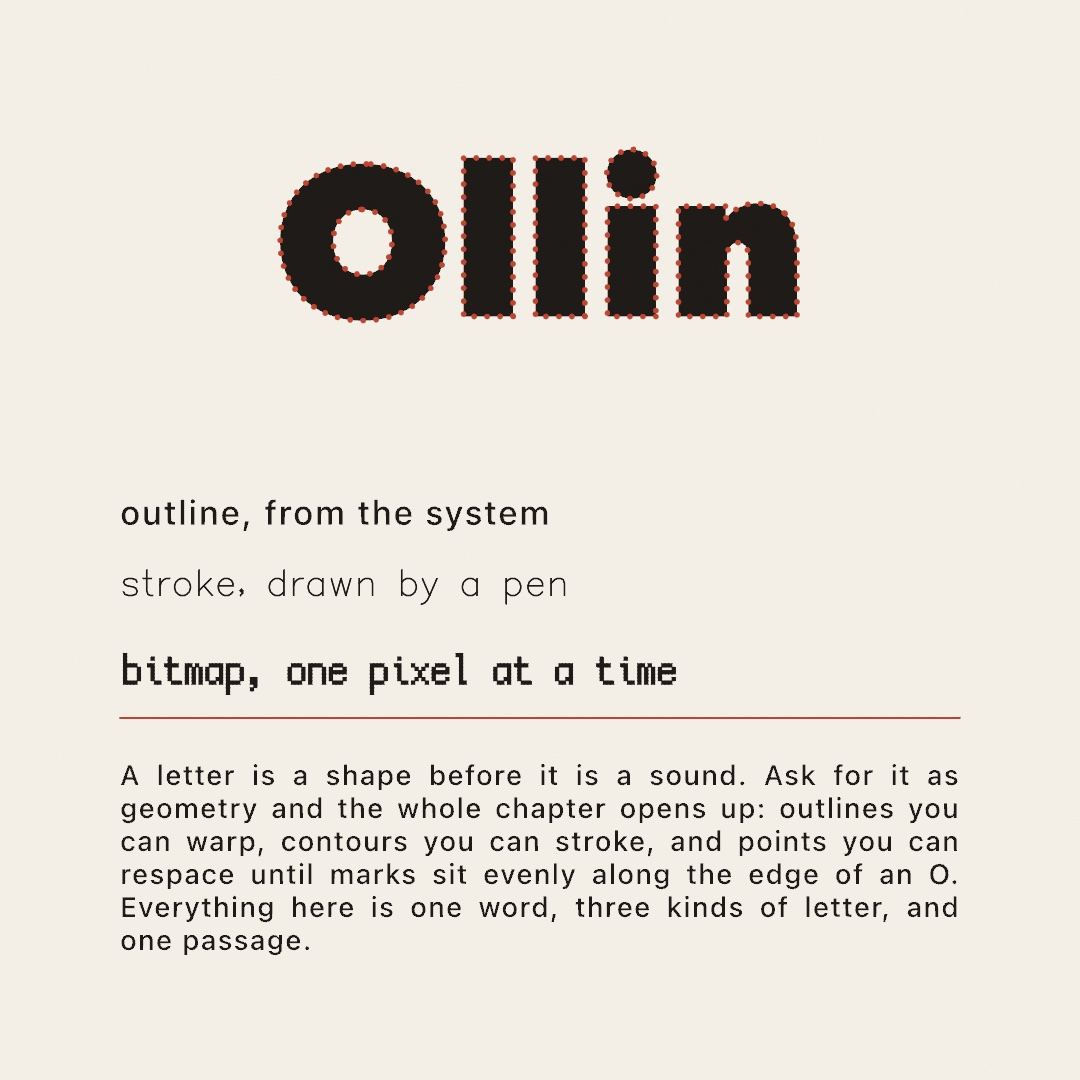
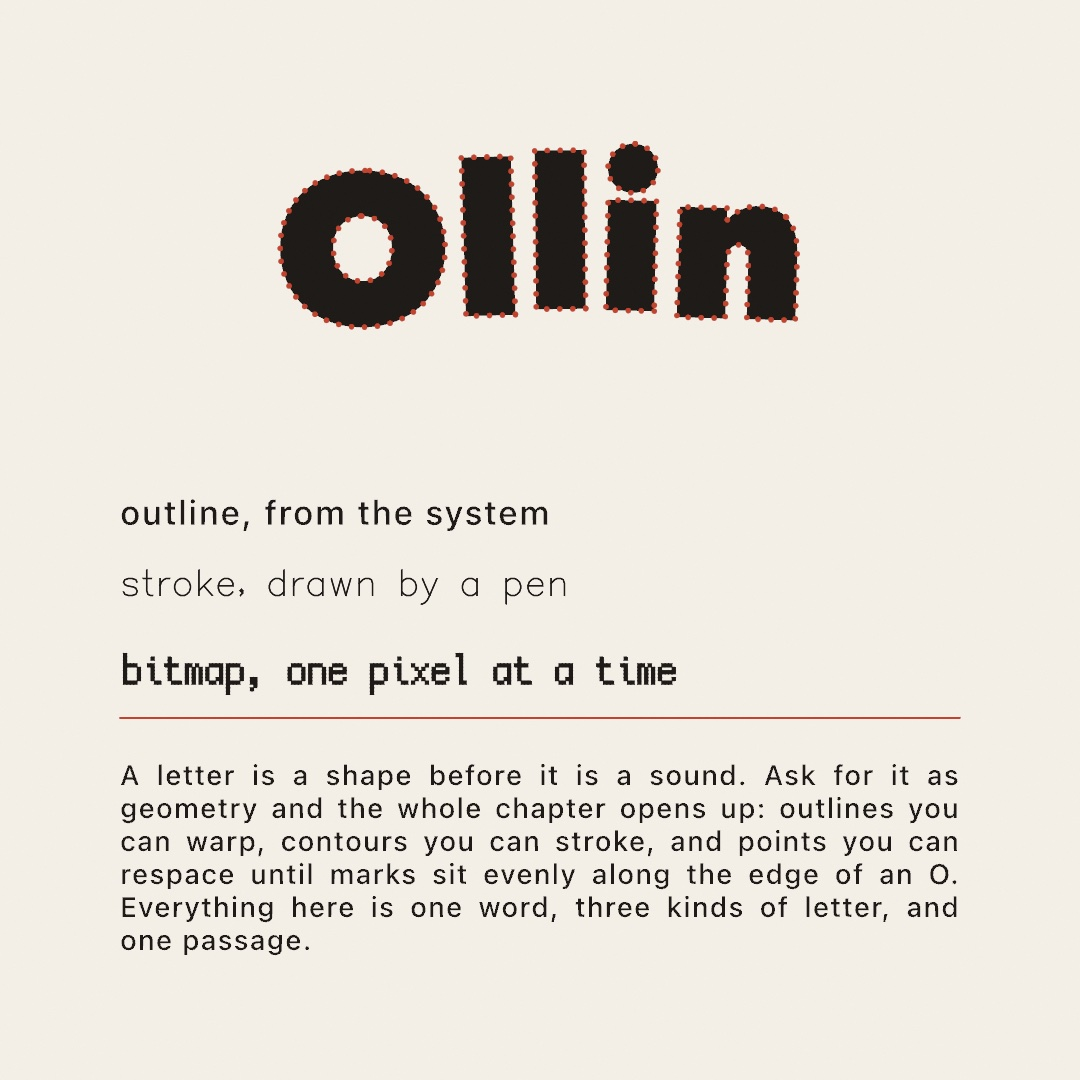
Chapter 8's type specimen moves. The five headline letters of the finished sketch float on their own beat, each glyph rising and sinking by a Drift parameter and leaning about its own centroid through mapPoints, with a head start per letter so the five never move as one, and the beads come along bec
Claude-Session: https://claude.ai/code/session_01WqLtBAH3GLezrn1E1FY2W7

diff --git a/Guide/Figures/08-Words/Specimen.swift b/Guide/Figures/08-Words/Specimen.swift
@@ -1,14 +1,15 @@
-// figure: frame=0
+// figure: frame=100
 //
 // Guide payoff (Chapter 8): a type specimen. The headline is glyph geometry
-// rather than text, filled and then beaded along its own resampled outline;
-// the three font kinds set the same line underneath; and the passage is
-// justified inside a box.
+// rather than text, filled and then beaded along its own resampled outline,
+// and each of its letters floats on a beat of its own; the three font kinds
+// set the same line underneath; and the passage is justified inside a box.
 import Ollin
 
 final class Specimen: Sketch {
     @Param("Bead spacing", 6.0...26.0) var beadSpacing = 13.0
     @Param("Bead size", 1.0...6.0) var beadSize = 2.6
+    @Param("Drift", 0.0...24.0) var drift = 8.0
     @Param("Justify") var justified = true
 
     let paper = Color(hex: 0xF4EFE6)
@@ -27,10 +28,20 @@ final class Specimen: Sketch {
 
         // The headline is not text. It is a set of outlines, filled in ink,
         // then respaced so the beads sit an even distance apart along them.
+        // Each letter floats on its own beat: it rises and sinks a little and
+        // leans as it goes, about its own center, with a head start per letter
+        // so the five never move as one. The beads come along, because they
+        // are computed from the moved outline.
         textFont(OutlineFont(name: "Avenir Next Heavy") ?? .systemBold)
         textSize(210)
         textAlign(.center, .middle)
-        for glyph in textToShapes("Ollin", width / 2, 250) {
+        for (i, letter) in textToShapes("Ollin", width / 2, 250).enumerated() {
+            let beat = time * 1.3 + Double(i) * 1.1
+            let center = letter.centroid
+            let glyph = letter.mapPoints { p in
+                p.rotated(by: cos(beat) * 0.03, around: center) + Vector2(0, sin(beat) * drift)
+            }
+
             noStroke()
             fill(ink)
             drawShape(glyph)

diff --git a/Guide/08-Words.md b/Guide/08-Words.md
@@ -4,9 +4,9 @@
 
 # 8. Words
 
-<img src="Images/08-Words/Specimen.jpg" alt="A type specimen sheet on cream paper: the word Ollin set very large in black with small red beads running evenly around every outline, three lines below it in an outline font, a pen font, and a pixel font, and a passage set flush on both edges under a red rule" width="560">
+<img src="Images/08-Words/Specimen.jpg" alt="A type specimen sheet on cream paper: the word Ollin set very large in black with small red beads running evenly around every outline, its five letters floating a little above or below one another and leaning slightly, three lines below it in an outline font, a pen font, and a pixel font, and a passage set flush on both edges under a red rule" width="560">
 
-A word is a shape that also means something, and it comes with centuries of craft attached. Here you learn to set words and to take them apart, down to outlines you can warp and respace. The specimen above beads one word along its own outline, over the three kinds of letter and a passage set flush on both edges. After it, letters come one at a time, and scripts that do not run like English keep their shaping, their direction, and their columns.
+A word is a shape that also means something, and it comes with centuries of craft attached. Here you learn to set words and to take them apart, down to outlines you can warp and respace. The specimen above beads one word along its own outline, over the three kinds of letter and a passage set flush on both edges. Each letter of that word floats on its own beat. After it, letters come one at a time, and scripts that do not run like English keep their shaping, their direction, and their columns.
 
 ## Saying something: `drawText`
 
@@ -119,7 +119,7 @@ The box has a second setting. The call `textHangingPunctuation()` lets a full st
 
 ## Putting it together: a type specimen
 
-Now you can build the sheet at the top. A specimen is what type designers make to show a face off, which makes it the right shape for this sketch. It composes every step above. The headline word comes from [Text as geometry](#text-as-geometry-texttoshapes), and the three kinds of letter from [Three kinds of letters](#three-kinds-of-letters-outline-bitmap-and-stroke-fonts). The passage set flush comes from [Both edges flush](#both-edges-flush-the-box-form-and-justification). Make a new file, `MySketches/Specimen.swift`:
+Now you can build the sheet at the top. A specimen is what type designers make to show a face off, which makes it the right shape for this sketch. It composes every step above. The headline word comes from [Text as geometry](#text-as-geometry-texttoshapes), and the three kinds of letter from [Three kinds of letters](#three-kinds-of-letters-outline-bitmap-and-stroke-fonts). The passage set flush comes from [Both edges flush](#both-edges-flush-the-box-form-and-justification). The headline moves with `time`, from [Chapter 3](03-MotionAndTime.md), one letter at a time. Make a new file, `MySketches/Specimen.swift`:
 
 ```swift
 import Ollin
@@ -127,6 +127,7 @@ import Ollin
 final class Specimen: Sketch {
     @Param("Bead spacing", 6.0...26.0) var beadSpacing = 13.0
     @Param("Bead size", 1.0...6.0) var beadSize = 2.6
+    @Param("Drift", 0.0...24.0) var drift = 8.0
     @Param("Justify") var justified = true
 
     let paper = Color(hex: 0xF4EFE6)
@@ -145,10 +146,20 @@ final class Specimen: Sketch {
 
         // The headline is not text. It is a set of outlines, filled in ink,
         // then respaced so the beads sit an even distance apart along them.
+        // Each letter floats on its own beat: it rises and sinks a little and
+        // leans as it goes, about its own center, with a head start per letter
+        // so the five never move as one. The beads come along, because they
+        // are computed from the moved outline.
         textFont(OutlineFont(name: "Avenir Next Heavy") ?? .systemBold)
         textSize(210)
         textAlign(.center, .middle)
-        for glyph in textToShapes("Ollin", width / 2, 250) {
+        for (i, letter) in textToShapes("Ollin", width / 2, 250).enumerated() {
+            let beat = time * 1.3 + Double(i) * 1.1
+            let center = letter.centroid
+            let glyph = letter.mapPoints { p in
+                p.rotated(by: cos(beat) * 0.03, around: center) + Vector2(0, sin(beat) * drift)
+            }
+
             noStroke()
             fill(ink)
             drawShape(glyph)
@@ -207,25 +218,27 @@ Run it, then drag the bead spacing. What each part contributes:
 
 - `textToShapes` is what the sketch turns on. The headline is drawn twice from one call: filled as a shape, then beaded along the *same* outline. Both need the outlines, which only that call hands you.
 - `resampled(spacing:)` is what makes the beads even. Outline points come back dense on curves and sparse on straights. So beads placed one per raw point would clump around the O and thin out along the l. Respacing first puts every point a fixed distance from the last one.
+- `mapPoints` is what moves a letter. It passes every point of the glyph through one closure and keeps the holes and the winding. Each letter gets a `beat` of its own from its place in the word, so the five never rise together. The move is a small rise and a lean about the letter's own `centroid`, and `Drift` sets how far. The beads are computed after the move, which is why they come along.
 - The three font blocks are three calls because each kind of font is its own type. The pen font draws with `stroke`, so leaving `noStroke` set from the headline makes it disappear with no error.
 - `drawText(_:in:)` wraps the passage inside a rectangle, and `textJustify()` opens the spaces so both edges line up. Turn the `Justify` parameter off and the right edge goes ragged, which is the same passage doing less work.
 
-When a specimen is a keeper, export it as a still:
+When a specimen is a keeper, export one frame of it as a still:
 
 ```sh
-swift run OllinLive MySketches/Specimen.swift --export specimen.png
+swift run OllinLive MySketches/Specimen.swift --export specimen.png --frame 100
 ```
 
 Before moving on, make it yours:
 
-- Warp the headline before you bead it, using the `signedNoise` push from [Text as geometry](#text-as-geometry-texttoshapes). The beads follow the outline wherever it goes, because they are computed from it.
+- Warp the headline before you bead it, using the `signedNoise` push from [Text as geometry](#text-as-geometry-texttoshapes). It goes inside the same `mapPoints` closure as the drift. The beads follow the outline wherever it goes, because they are computed from it.
+- Set `Drift` to 0 and the sheet holds still, the way a printed specimen does. Set it to 24 and the letters float apart, which is the point where it stops reading as a specimen.
 - Set `beadSpacing` to 26 and `beadSize` to 5.5. The beads stop reading as a texture and start reading as a dotted rule.
 - Swap the headline for a word in a script you do not read. Everything here works the same way, and the scripts family below says why.
 - Drop the fill and keep only the beads, on a dark ground. The word stays readable from its outline alone.
 
 ## Letters one at a time: the per-glyph form
 
-The specimen set its headline as one shape and its lines as one string each. There is also a form of `drawText` that hands you a string one glyph at a time. So each letter can carry its own color, position, and motion. The specimen has no use for it. But it is the move under kinetic typography, where letters move on their own, and the scripts family after it reads through the same closure.
+The specimen moved its headline letters as shapes, one glyph at a time, and set its three lines as one string each. There is also a form of `drawText` that hands you a string one glyph at a time, with no outlines in sight. So each letter can carry its own color, position, and motion. The specimen has no use for it, because it already had the geometry. But it is the move under kinetic typography, where letters move on their own, and the scripts family after it reads through the same closure.
 
 ### Letters that move: `drawText` with a closure
 
